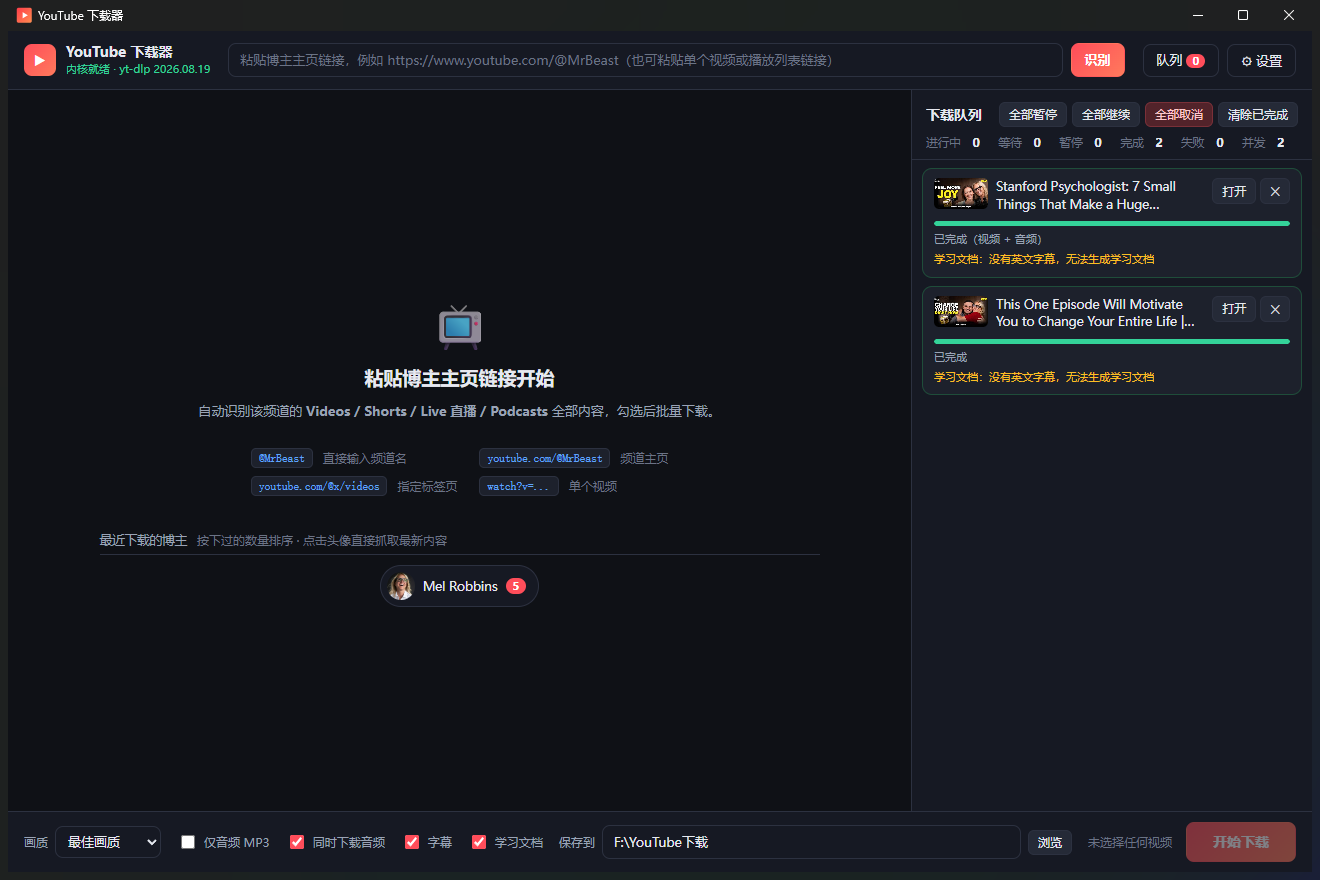
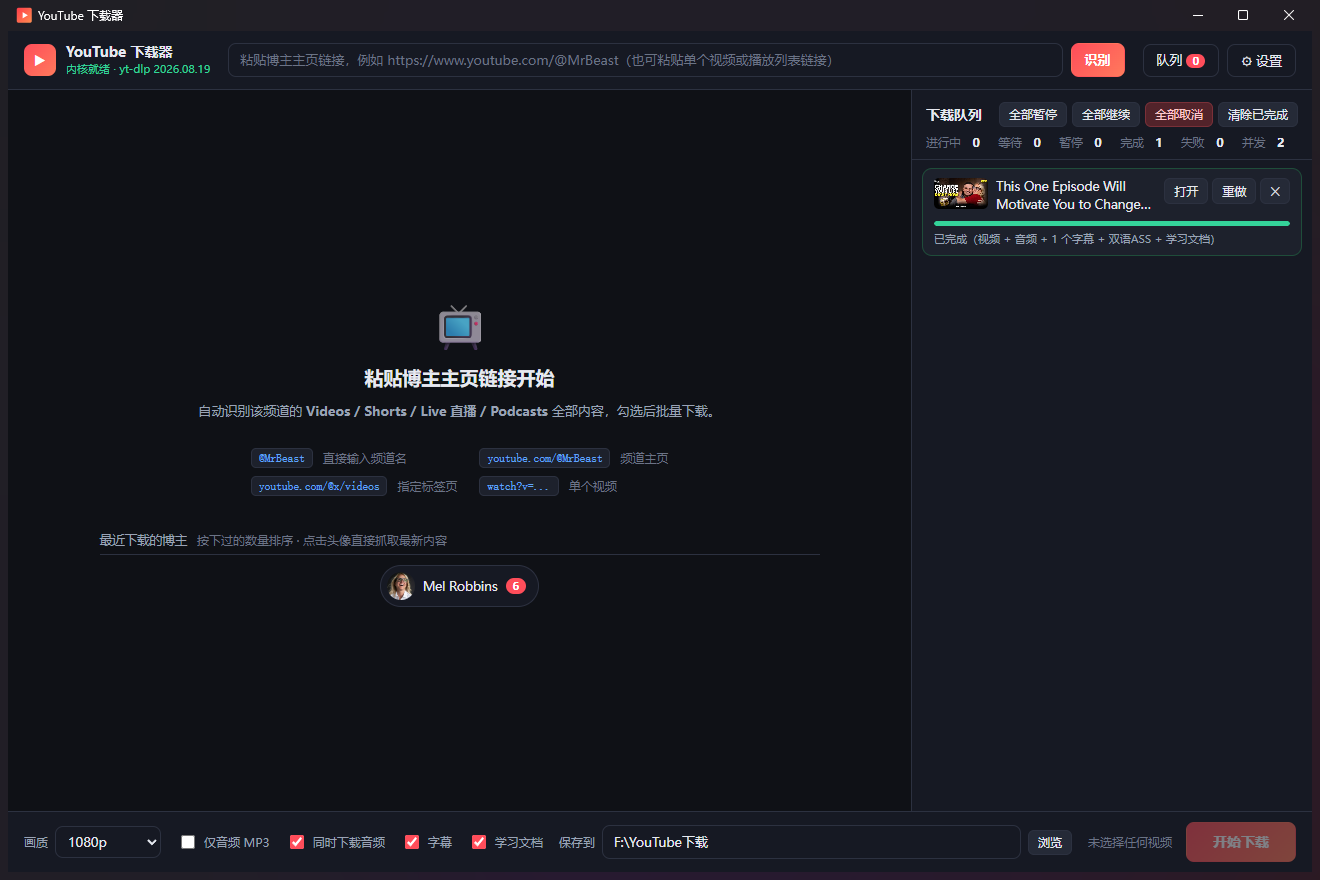
v1.6.1: 修复字幕下好了却判为没有字幕
症状：下载完成、字幕也下好了，但任务显示「已完成（视频 + 音频）」，
学习文档报「没有英文字幕」。

根因：视频下载带了 --trim-filenames 180 会截断文件名，而字幕抓取那步没带，
于是视频名被截断成 ... [2026-09-.mp4、字幕名保留完整 ... [2026-09-07].en.srt，
collectSubtitleFiles 用「视频名 + 点」做前缀匹配就匹配不上了。
三层文件夹结构下路径更长，更容易触发，所以 v1.6.0 之后变明显。

- collectSubtitleFiles 兼容截断：截断只砍尾部，两者必然互为前缀，加一条前缀匹配
  （阈值 24 字符，避免误配同目录下名字相近的视频）
- --trim-filenames 180 改 220，减少不必要的截断
- 新增 refreshSubPaths：生成学习文档前重扫磁盘，历史任务点重做即可修复，无需重新下载

diff --git a/src/main/queue.js b/src/main/queue.js
@@ -159,14 +159,43 @@ function collectSubtitleFiles(videoPath) {
   try {
     const dir = path.dirname(videoPath);
     const base = path.basename(videoPath, path.extname(videoPath));
+    const stripExt = (f) => f.replace(/\.[^.]+$/, '');
     return fs
       .readdirSync(dir)
-      .filter((f) => f.startsWith(base + '.') && SUB_EXT.test(f))
+      .filter((f) => {
+        if (!SUB_EXT.test(f)) return false;
+        // 正常情况：字幕名 = 视频名 + .en / .zh-Hans 等
+        if (f.startsWith(base + '.')) return true;
+        // 兼容 --trim-filenames 造成的截断：
+        // 视频与字幕的扩展名不一样长（.mp4 vs .en.srt），yt-dlp 会截成不同长度，
+        // 于是「视频名 + .」匹配不上字幕名——字幕明明已经下好躺在同一个文件夹里，
+        // 却被判定为「没有英文字幕」，学习文档也就生成不了（实测踩过）。
+        // 截断只砍尾部，所以两者必然互为前缀关系（较短者是较长者的开头）。
+        const fb = stripExt(f);
+        const shorter = base.length <= fb.length ? base : fb;
+        const longer = base.length <= fb.length ? fb : base;
+        // 阈值 24：太短容易误配同目录下名字相近的其它视频
+        return shorter.length >= 24 && longer.startsWith(shorter);
+      })
       .map((f) => path.join(dir, f))
       .sort();
   } catch (_) {
     return [];
   }
+}
+
+/**
+ * 重新扫描磁盘上的字幕文件并更新 item.subPaths。
+ * 用于修复历史任务（当时因为截断匹配失败而漏掉了字幕），
+ * 这样点「重做」就能直接生成学习文档，不必重新下载。
+ */
+function refreshSubPaths(item) {
+  if (!item) return [];
+  if (item.filePath && fs.existsSync(item.filePath)) {
+    const found = collectSubtitleFiles(item.filePath);
+    if (found.length) item.subPaths = found;
+  }
+  return item.subPaths || [];
 }
 
 function num(v) {
@@ -570,7 +599,9 @@ class DownloadQueue extends EventEmitter {
       '--no-overwrites',
       '--windows-filenames',
       '--trim-filenames',
-      '180',
+      // 上限比 Windows 的 260 留足余量。之前是 180，在「博主母文件夹/视频文件夹/文件」
+      // 三层结构下很容易触发截断，把文件名砍成 "[2026-09-" 这种半截样子。
+      '220',
       '-P',
       o.outputDir,
       '-o',
@@ -981,7 +1012,9 @@ class DownloadQueue extends EventEmitter {
       item.opts && item.opts.studyDoc != null ? item.opts.studyDoc : settings.studyDoc !== false;
     if (!wantStudy) return;
 
-    const srt = (item.subPaths || []).find((p) => /\.srt$/i.test(p)) || '';
+    // 先重新扫一遍磁盘：老任务可能因为文件名截断漏记了字幕，
+    // 但字幕其实就在视频旁边，重扫即可直接用上，不必重新下载
+    const srt = refreshSubPaths(item).find((p) => /\.srt$/i.test(p)) || '';
     if (!srt || !fs.existsSync(srt)) {
       item.studyError = '没有英文字幕，无法生成学习文档';
       this.changed(true);
@@ -1232,4 +1265,6 @@ module.exports = {
   effectiveTemplate,
   channelFolderOf,
   sanitizeFolderName,
+  collectSubtitleFiles,
+  refreshSubPaths,
 };

diff --git a/src/main/main.js b/src/main/main.js
@@ -249,7 +249,9 @@ function registerIpc() {
     if (!item) return { ok: false, error: '任务不存在' };
     if (item.studying) return { ok: false, error: '该任务正在生成中' };
     // 手动触发时忽略护栏，并且可以强制重新翻译
-    const srt = (item.subPaths || []).find((p) => /\.srt$/i.test(p)) || '';
+    // 先重新扫一遍磁盘：老任务可能因为文件名截断漏记了字幕，
+    // 但字幕其实就在视频旁边，重扫即可直接生成，不必重新下载
+    const srt = queueMod.refreshSubPaths(item).find((p) => /\.srt$/i.test(p)) || '';
     if (!srt || !fs.existsSync(srt)) return { ok: false, error: '该任务没有英文字幕，无法生成' };
     if (item.filePath && !fs.existsSync(item.filePath)) {
       // 视频被删了也不影响，字幕还在就能生成

diff --git a/CHANGELOG.md b/CHANGELOG.md
@@ -1,5 +1,51 @@
 # 更新日志
 
+## v1.6.1 — 修复「字幕下好了却判为没有字幕」（2026-09-11）
+
+### 症状
+
+下载完成、字幕也下好了，但任务显示「已完成（视频 + 音频）」，
+学习文档报 **「没有英文字幕，无法生成学习文档」**。
+
+### 根因：文件名被截断导致字幕匹配失败
+
+目录里的实际情况：
+
+```
+名称长度 86  |  ... Gary Vee [2026-09-.mp4        ← 视频名被截断
+名称长度 86  |  ... Gary Vee [2026-09-.mp3        ← 音频名被截断
+名称长度 92  |  ... Gary Vee [2026-09-07].en.srt  ← 字幕名【没】被截断
+```
+
+**字幕其实就在同一个文件夹里**，但两处对不上：
+
+1. 视频下载带了 `--trim-filenames 180`（路径超长时截断文件名），
+   而**字幕抓取那一步没有带**，所以字幕保留了完整文件名
+2. `collectSubtitleFiles()` 用「视频名 + `.`」做前缀匹配找字幕——
+   截断后的视频名匹配不上完整长度的字幕名，于是 `subPaths` 为空
+
+在「博主母文件夹 / 视频文件夹 / 文件」三层结构下路径更长，更容易触发截断，
+所以这个问题在 v1.6.0 之后变明显了。
+
+### 修复
+
+1. **`collectSubtitleFiles()` 兼容截断**：截断只砍尾部，所以视频名与字幕名必然**互为前缀**
+   （较短者是较长者的开头）。除了原有的「视频名 + `.`」精确匹配，再加一条前缀匹配，
+   阈值 24 字符以免误配同目录下名字相近的其它视频（已用两个相似标题实测无互相误配）。
+2. **`--trim-filenames` 180 → 220**：三层结构下减少不必要的截断。
+3. **新增 `refreshSubPaths()`**：生成学习文档前重新扫一遍磁盘上的字幕。
+   这样**已经下载完成的历史任务，点一下「重做」就能直接生成学习文档，不必重新下载**。
+
+### 验证
+
+| 检查 | 结果 |
+|---|---|
+| 用真实被截断的路径调用 `collectSubtitleFiles` | ✅ 找到 1 个字幕 |
+| 两个相似标题（#400 / #401）是否互相误配 | ✅ 各自只匹配到自己的字幕 |
+| 已损坏的历史任务调用 `refreshSubPaths` | ✅ `subPaths` 从空变为找到 `.en.srt` |
+
+---
+
 ## v1.6.0 — 博主母文件夹（2026-09-11）
 
 以**博主主页**抓取的内容，现在先在下载目录下建一层**博主母文件夹**，
